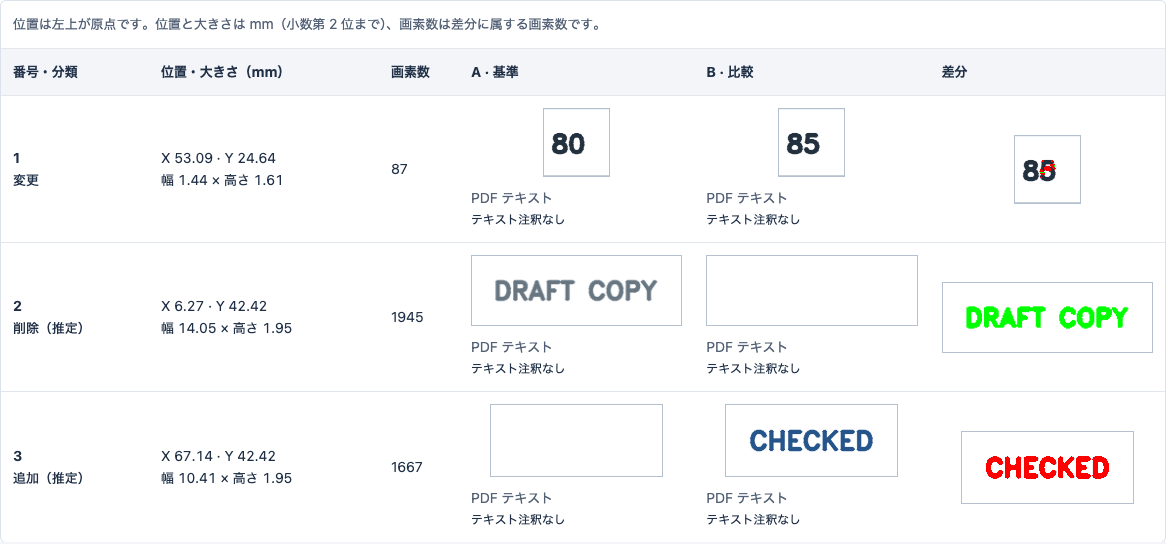
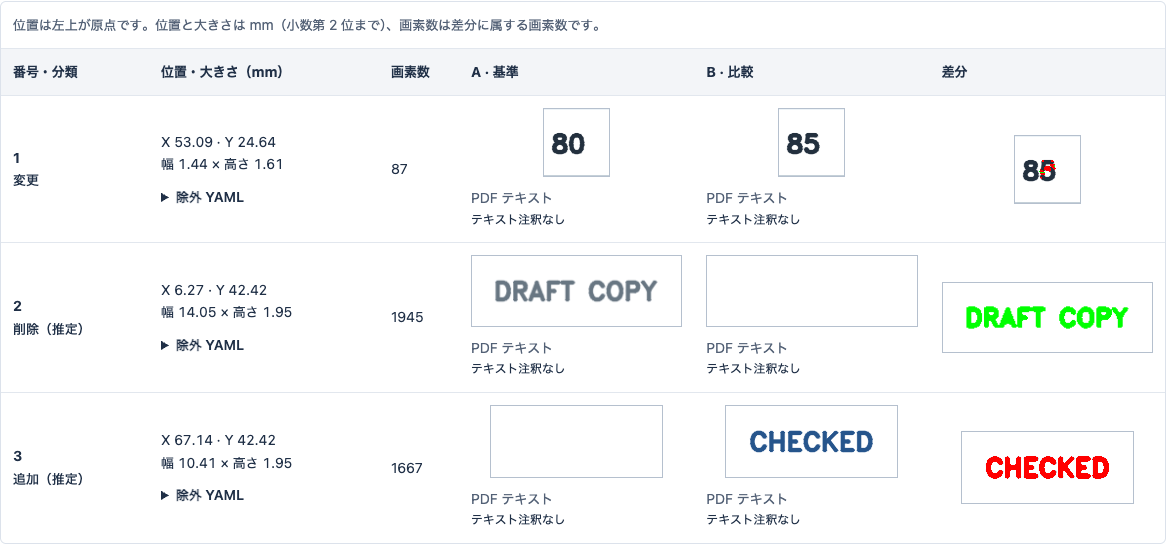
release: 赤青オーバーレイの実画面を追加してv0.1.3を準備する

diff --git a/docs/samples/readme/result/report.html b/docs/samples/readme/result/report.html
@@ -35,6 +35,12 @@ details[open] > summary { margin-bottom: 20px; }
 .page-metrics { grid-template-columns: repeat(auto-fit, minmax(160px, 1fr)); }
 .notice { padding: 10px 14px; background: #fff6da; border-radius: 5px; font-size: .875rem; }
 .viewer { margin: 20px 0 24px; border: 1px solid #dce2eb; border-radius: 8px; overflow: hidden; background: #f3f5f8; }
+.raw-evidence { margin: 24px 0; padding-top: 20px; border-top: 1px solid #dce2eb; }
+.raw-legend { font-weight: 600; }
+.raw-a { color: #b00000; }
+.raw-b { color: #0000b0; }
+.raw-links { display: flex; flex-wrap: wrap; gap: 8px 20px; font-size: .875rem; }
+.raw-links a { padding: 6px 0; overflow-wrap: anywhere; }
 .viewer-toolbar { display: flex; align-items: center; justify-content: space-between; gap: 12px; flex-wrap: wrap; padding: 12px 16px; }
 figcaption { font-size: .875rem; color: #536176; }
 .image-switch { display: flex; flex-wrap: wrap; gap: 4px; }
@@ -55,6 +61,10 @@ th, td { padding: 12px; border-top: 1px solid #e2e7ee; vertical-align: middle; }
 thead th { background: #f3f5f8; white-space: nowrap; }
 td { overflow-wrap: anywhere; }
 .clusters { min-width: 960px; table-layout: fixed; }
+.region-settings, .region-results { min-width: 900px; table-layout: fixed; }
+.region-settings th:first-child, .region-results th:first-child { width: 190px; overflow-wrap: anywhere; }
+.page-regions { margin: 16px 0 24px; }
+.region-audit li { overflow-wrap: anywhere; }
 .clusters th:nth-child(1) { width: 148px; }
 .kind { white-space: nowrap; font-weight: 500; }
 .movement { display: block; font-weight: 400; font-size: .8rem; overflow-wrap: anywhere; }
@@ -62,6 +72,10 @@ td { overflow-wrap: anywhere; }
 .clusters th:nth-child(2) { width: 230px; }
 .clusters th:nth-child(3) { width: 80px; }
 .bounds { font-variant-numeric: tabular-nums; }
+.exclusion-snippet { margin-top: 10px; }
+.exclusion-snippet[open] > summary { margin-bottom: 8px; }
+.exclusion-snippet label { display: block; font-size: .8rem; color: #536176; }
+.exclusion-snippet textarea { display: block; width: 100%; max-width: 100%; margin: 4px 0 8px; padding: 8px; border: 1px solid #9caabd; border-radius: 4px; background: #f8fafc; color: #203047; font: .8rem/1.5 ui-monospace, monospace; resize: vertical; }
 .crop { display: block; max-width: 100%; max-height: 160px; width: auto; height: auto; margin: auto; border: 1px solid #b5c0ce; }
 .pdf-text { margin-top: 10px; font-size: .8rem; }
 .text-value { white-space: pre-wrap; overflow-wrap: anywhere; max-height: 12rem; overflow-y: auto; }
@@ -86,6 +100,7 @@ footer { color: #536176; font-size: .8rem; text-align: center; margin-top: 36px;
   .card { border-radius: 0; }
   .table-scroll { overflow: visible; }
   .clusters { min-width: 0; table-layout: auto; }
+  .region-settings, .region-results { min-width: 0; table-layout: auto; }
 }
 </style>
 </head>
@@ -95,7 +110,7 @@ footer { color: #536176; font-size: .8rem; text-align: center; margin-top: 36px;
 <header>
 <p class="eyebrow">ReportDiff · 比較レポート</p>
 <h1>帳票の比較結果 <span class="status different">相違あり</span></h1>
-<p class="muted">2026-09-21 12:00:00 +09:00 · reportdiff 0.1.2</p>
+<p class="muted">2026-09-21 12:00:00 +09:00 · reportdiff 0.1.3</p>
 </header>
 <section aria-label="要約" class="card">
 <div class="inputs">
@@ -109,11 +124,11 @@ footer { color: #536176; font-size: .8rem; text-align: center; margin-top: 36px;
 <div><dt>位置ずれを吸収した数</dt><dd>0</dd></div>
 </dl>
 <p class="muted">比較・相違のページ数は今回の出力対象分です。片側だけのページも相違に含みます。吸収数は位置ずれとして相違から除いたグループ数です。</p>
-</section><section class="card warnings" aria-labelledby="warnings-title"><h2 id="warnings-title">警告</h2><p>警告はありません。</p></section><details class="card settings"><summary>使った設定・除外領域</summary><dl class="settings-grid"><div><dt>PDF の描画解像度</dt><dd>300 dpi</dd></div><div><dt>画像の換算解像度</dt><dd>300 dpi</dd></div><div><dt>位置ずれの許容幅</dt><dd>0.15 mm</dd></div><div><dt>色の差のしきい値</dt><dd>3</dd></div><div><dt>コントラスト比例の許容係数</dt><dd>0.3</dd></div><div><dt>インクの局所背景半径</dt><dd>1.5 mm</dd></div><div><dt>インクの明度差のしきい値</dt><dd>25</dd></div><div><dt>クラスタの結合距離・横</dt><dd>3 mm</dd></div><div><dt>クラスタの結合距離・縦</dt><dd>1 mm</dd></div><div><dt>クラスタの最小画素数</dt><dd>4</dd></div><div><dt>ページのクラスタ数上限</dt><dd>500</dd></div><div><dt>差分の割合の上限</dt><dd>0.3</dd></div><div><dt>クラスタの読み順の帯幅</dt><dd>5 mm</dd></div><div><dt>移動の探索距離（各軸）</dt><dd>5 mm</dd></div><div><dt>移動の一致度の下限</dt><dd>0.98</dd></div><div><dt>移動候補の次点との差</dt><dd>0.02</dd></div><div><dt>移動テンプレートの余白</dt><dd>1 mm</dd></div><div><dt>全体補正</dt><dd>無効</dd></div><div><dt>全体補正の探索距離（各軸）</dt><dd>5 mm</dd></div><div><dt>全体補正の一致度の下限</dt><dd>0.98</dd></div><div><dt>全体補正の次点との差</dt><dd>0.02</dd></div><div><dt>全体補正の改善量の下限</dt><dd>0.05</dd></div><div><dt>全体補正の粗い格子の長辺上限</dt><dd>800 要素</dd></div><div><dt>全体補正の復元段階の探索半径</dt><dd>2 要素</dd></div><div><dt>全体補正の支持区画数の下限</dt><dd>3</dd></div><div><dt>全体補正の支持行数の下限</dt><dd>2</dd></div><div><dt>全体補正の支持列数の下限</dt><dd>2</dd></div><div><dt>全体補正の区画内の黒換算面積</dt><dd>1 mm&#178;</dd></div><div><dt>PDF 注釈の文字要素数上限（ページ・片側）</dt><dd>100000</dd></div><div><dt>PDF 注釈の単語数上限（ページ・片側）</dt><dd>20000</dd></div><div><dt>PDF 注釈の本文上限（クラスタ・片側）</dt><dd>2000 Unicode 文字</dd></div><div><dt>PDF 注釈の行の重なり率の下限</dt><dd>0.5</dd></div><div><dt>切り出し画像の余白</dt><dd>2 mm</dd></div></dl><h3>除外領域</h3><p>除外領域はありません。</p></details><section id="pages" aria-labelledby="pages-title"><h2 id="pages-title">ページ別の結果</h2><p class="muted">重ね描きの赤は差分・輪郭・番号、黄色は除外領域です。画像を選ぶと元の大きさで開きます。</p><p class="muted">追加・削除などの分類は A→B のインクの有無からの推定です。背景・塗りや判定が明確でない差は「変更」とします。「移動（推定）」は位置を変えると内容が一致し、対応が一意と判断できた箇所です。移動の向きは A→B です。移動も相違として数えます。切り出しの緑は A だけのインク、赤は B だけ・両方のインクやその他の差分です。</p><p class="muted">PDF テキストは元ファイルの文字情報を添えた補足です。画像の文字認識結果ではなく、不可視の文字や変更されていない部分を含むことがあります。複雑な段組みや縦書きの読み順は再現しません。画像と併せて確認してください。</p><details class="card page" id="page-1" open><summary><span>1 ページ</span> <span class="status different">相違あり</span></summary><dl class="metrics page-metrics"><div><dt>画像サイズ</dt><dd>1100 &#215; 650 px</dd></div><div><dt>生の差分の画素数</dt><dd>3699</dd></div><div><dt>除外したノイズの数</dt><dd>0</dd></div><div><dt>位置ずれを吸収した数</dt><dd>0</dd></div><div><dt>吸収に使った最大ずれ</dt><dd>0 px</dd></div></dl><figure class="viewer"><figcaption class="viewer-toolbar"><div class="image-switch" role="group" aria-label="1 ページの表示画像" hidden><button type="button" aria-pressed="false" data-src="pages/p001_a.png" data-label="1 ページ・A &#183; 基準">A · 基準</button><button type="button" aria-pressed="false" data-src="pages/p001_b.png" data-label="1 ページ・B &#183; 比較">B · 比較</button><button type="button" aria-pressed="true" data-src="pages/p001_overlay.png" data-label="1 ページ・重ね描き">重ね描き</button></div><span class="viewer-label" aria-live="polite">1 ページ・重ね描き</span></figcaption><a class="page-image-link" href="pages/p001_overlay.png"><img class="page-image" src="pages/p001_overlay.png" alt="1 ページ・重ね描き" loading="lazy" width="1100" height="650"></a></figure><h3>相違箇所 <span class="muted">3 件</span></h3><p class="muted table-hint">一覧は横にスクロールできます。</p><div class="table-scroll" role="region" aria-label="1 ページの相違箇所" tabindex="0"><table class="clusters"><caption>位置は左上が原点です。位置と大きさは mm（小数第 2 位まで）、画素数は差分に属する画素数です。</caption><thead><tr><th scope="col">番号・分類</th><th scope="col">位置・大きさ（mm）</th><th scope="col">画素数</th><th scope="col">A · 基準</th><th scope="col">B · 比較</th><th scope="col">差分</th></tr></thead><tbody><tr id="page-1-cluster-1"><th scope="row">1<br><span class="kind">変更</span></th><td class="bounds">X 53.09 · Y 24.64<br>幅 1.44 × 高さ 1.61</td><td>87</td><td><a href="crops/p001_c001_a.png"><img class="crop" src="crops/p001_c001_a.png" alt="1 ページ・相違 1・A の切り出し" loading="lazy"></a><div class="pdf-text"><span class="muted">PDF テキスト</span><div class="text-value" tabindex="0" role="region" aria-label="1 ページ・相違 1・A の切り出しの PDF テキスト">テキスト注釈なし</div></div></td><td><a href="crops/p001_c001_b.png"><img class="crop" src="crops/p001_c001_b.png" alt="1 ページ・相違 1・B の切り出し" loading="lazy"></a><div class="pdf-text"><span class="muted">PDF テキスト</span><div class="text-value" tabindex="0" role="region" aria-label="1 ページ・相違 1・B の切り出しの PDF テキスト">テキスト注釈なし</div></div></td><td><a href="crops/p001_c001_diff.png"><img class="crop" src="crops/p001_c001_diff.png" alt="1 ページ・相違 1・差分の切り出し" loading="lazy"></a></td></tr><tr id="page-1-cluster-2"><th scope="row">2<br><span class="kind">削除（推定）</span></th><td class="bounds">X 6.27 · Y 42.42<br>幅 14.05 × 高さ 1.95</td><td>1945</td><td><a href="crops/p001_c002_a.png"><img class="crop" src="crops/p001_c002_a.png" alt="1 ページ・相違 2・A の切り出し" loading="lazy"></a><div class="pdf-text"><span class="muted">PDF テキスト</span><div class="text-value" tabindex="0" role="region" aria-label="1 ページ・相違 2・A の切り出しの PDF テキスト">テキスト注釈なし</div></div></td><td><a href="crops/p001_c002_b.png"><img class="crop" src="crops/p001_c002_b.png" alt="1 ページ・相違 2・B の切り出し" loading="lazy"></a><div class="pdf-text"><span class="muted">PDF テキスト</span><div class="text-value" tabindex="0" role="region" aria-label="1 ページ・相違 2・B の切り出しの PDF テキスト">テキスト注釈なし</div></div></td><td><a href="crops/p001_c002_diff.png"><img class="crop" src="crops/p001_c002_diff.png" alt="1 ページ・相違 2・差分の切り出し" loading="lazy"></a></td></tr><tr id="page-1-cluster-3"><th scope="row">3<br><span class="kind">追加（推定）</span></th><td class="bounds">X 67.14 · Y 42.42<br>幅 10.41 × 高さ 1.95</td><td>1667</td><td><a href="crops/p001_c003_a.png"><img class="crop" src="crops/p001_c003_a.png" alt="1 ページ・相違 3・A の切り出し" loading="lazy"></a><div class="pdf-text"><span class="muted">PDF テキスト</span><div class="text-value" tabindex="0" role="region" aria-label="1 ページ・相違 3・A の切り出しの PDF テキスト">テキスト注釈なし</div></div></td><td><a href="crops/p001_c003_b.png"><img class="crop" src="crops/p001_c003_b.png" alt="1 ページ・相違 3・B の切り出し" loading="lazy"></a><div class="pdf-text"><span class="muted">PDF テキスト</span><div class="text-value" tabindex="0" role="region" aria-label="1 ページ・相違 3・B の切り出しの PDF テキスト">テキスト注釈なし</div></div></td><td><a href="crops/p001_c003_diff.png"><img class="crop" src="crops/p001_c003_diff.png" alt="1 ページ・相違 3・差分の切り出し" loading="lazy"></a></td></tr></tbody></table></div></details></section><footer>ReportDiff · オフライン比較レポート</footer></main><script type="application/json" id="result">{
+</section><section class="card warnings" aria-labelledby="warnings-title"><h2 id="warnings-title">警告</h2><p>警告はありません。</p></section><details class="card settings"><summary>使った設定・除外領域</summary><dl class="settings-grid"><div><dt>PDF の描画解像度</dt><dd>300 dpi</dd></div><div><dt>画像の換算解像度</dt><dd>300 dpi</dd></div><div><dt>位置ずれの許容幅</dt><dd>0.15 mm</dd></div><div><dt>色の差のしきい値</dt><dd>3</dd></div><div><dt>コントラスト比例の許容係数</dt><dd>0.3</dd></div><div><dt>インクの局所背景半径</dt><dd>1.5 mm</dd></div><div><dt>インクの明度差のしきい値</dt><dd>25</dd></div><div><dt>クラスタの結合距離・横</dt><dd>3 mm</dd></div><div><dt>クラスタの結合距離・縦</dt><dd>1 mm</dd></div><div><dt>クラスタの最小画素数</dt><dd>4</dd></div><div><dt>ページのクラスタ数上限</dt><dd>500</dd></div><div><dt>差分の割合の上限</dt><dd>0.3</dd></div><div><dt>クラスタの読み順の帯幅</dt><dd>5 mm</dd></div><div><dt>移動の探索距離（各軸）</dt><dd>5 mm</dd></div><div><dt>移動の一致度の下限</dt><dd>0.98</dd></div><div><dt>移動候補の次点との差</dt><dd>0.02</dd></div><div><dt>移動テンプレートの余白</dt><dd>1 mm</dd></div><div><dt>全体補正</dt><dd>無効</dd></div><div><dt>全体補正の探索距離（各軸）</dt><dd>5 mm</dd></div><div><dt>全体補正の一致度の下限</dt><dd>0.98</dd></div><div><dt>全体補正の次点との差</dt><dd>0.02</dd></div><div><dt>全体補正の改善量の下限</dt><dd>0.05</dd></div><div><dt>全体補正の粗い格子の長辺上限</dt><dd>800 要素</dd></div><div><dt>全体補正の復元段階の探索半径</dt><dd>2 要素</dd></div><div><dt>全体補正の支持区画数の下限</dt><dd>3</dd></div><div><dt>全体補正の支持行数の下限</dt><dd>2</dd></div><div><dt>全体補正の支持列数の下限</dt><dd>2</dd></div><div><dt>全体補正の区画内の黒換算面積</dt><dd>1 mm&#178;</dd></div><div><dt>PDF 注釈の文字要素数上限（ページ・片側）</dt><dd>100000</dd></div><div><dt>PDF 注釈の単語数上限（ページ・片側）</dt><dd>20000</dd></div><div><dt>PDF 注釈の本文上限（クラスタ・片側）</dt><dd>2000 Unicode 文字</dd></div><div><dt>PDF 注釈の行の重なり率の下限</dt><dd>0.5</dd></div><div><dt>切り出し画像の余白</dt><dd>2 mm</dd></div><div><dt>除外 YAML の余白</dt><dd>1 mm</dd></div><div><dt>確認用オーバーレイ（補正前）</dt><dd>有効</dd></div></dl><h3>除外領域</h3><p>除外領域はありません。</p></details><section id="pages" aria-labelledby="pages-title"><h2 id="pages-title">ページ別の結果</h2><p class="muted">重ね描きの赤は差分・輪郭・番号、黄色は除外領域です。画像を選ぶと元の大きさで開きます。</p><p class="muted">追加・削除などの分類は A→B のインクの有無からの推定です。背景・塗りや判定が明確でない差は「変更」とします。「移動（推定）」は位置を変えると内容が一致し、対応が一意と判断できた箇所です。移動の向きは A→B です。移動も相違として数えます。切り出しの緑は A だけのインク、赤は B だけ・両方のインクやその他の差分です。</p><p class="muted">PDF テキストは元ファイルの文字情報を添えた補足です。画像の文字認識結果ではなく、不可視の文字や変更されていない部分を含むことがあります。複雑な段組みや縦書きの読み順は再現しません。画像と併せて確認してください。</p><details class="card page" id="page-1" open><summary><span>1 ページ</span> <span class="status different">相違あり</span></summary><dl class="metrics page-metrics"><div><dt>画像サイズ</dt><dd>1100 &#215; 650 px</dd></div><div><dt>生の差分の画素数</dt><dd>3699</dd></div><div><dt>除外したノイズの数</dt><dd>0</dd></div><div><dt>位置ずれを吸収した数</dt><dd>0</dd></div><div><dt>吸収に使った最大ずれ</dt><dd>0 px</dd></div></dl><h3>判定表示</h3><figure class="viewer"><figcaption class="viewer-toolbar"><div class="image-switch" role="group" aria-label="1 ページの表示画像" hidden><button type="button" aria-pressed="false" data-src="pages/p001_a.png" data-label="1 ページ・A &#183; 基準">A · 基準</button><button type="button" aria-pressed="false" data-src="pages/p001_b.png" data-label="1 ページ・B &#183; 比較">B · 比較</button><button type="button" aria-pressed="true" data-src="pages/p001_overlay.png" data-label="1 ページ・重ね描き">重ね描き</button></div><span class="viewer-label" aria-live="polite">1 ページ・重ね描き</span></figcaption><a class="page-image-link" href="pages/p001_overlay.png"><img class="page-image" src="pages/p001_overlay.png" alt="1 ページ・重ね描き" loading="lazy" width="1100" height="650"></a></figure><section class="raw-evidence"><h3>確認用オーバーレイ（補正前）</h3><p class="muted">判定から独立した元画像の重ね合わせです。左上を合わせ、右・下だけ白で埋めています。位置補正・除外・差分判定は反映しません。判定表示や相違箇所の座標と異なる場合があります。</p><p class="raw-legend"><span class="raw-a">赤：A のみ</span> · <span class="raw-b">青：B のみ</span> · <span>黒／グレー：共通</span></p><p class="muted">濃淡をグレーに変換して重ねています。同じグレー値になる色相の違いは見えません。色は元 A/B で確認してください。</p><p class="muted">300 dpi · 白埋め後 1100 × 650 px<br>A 元サイズ 1100 × 650 px · 白埋め 右 0 / 下 0 px<br>B 元サイズ 1100 × 650 px · 白埋め 右 0 / 下 0 px</p><figure class="viewer"><figcaption class="viewer-toolbar"><div class="image-switch" role="group" aria-label="1 ページの確認用画像" hidden><button type="button" aria-pressed="true" data-src="pages/p001_raw_overlay.png" data-label="1 ページ・確認用オーバーレイ（補正前）">確認用オーバーレイ（補正前）</button><button type="button" aria-pressed="false" data-src="pages/p001_a.png" data-label="1 ページ・元 A（補正前）">元 A（補正前）</button><button type="button" aria-pressed="false" data-src="pages/p001_b.png" data-label="1 ページ・元 B（補正前）">元 B（補正前）</button></div><span class="viewer-label" aria-live="polite">1 ページ・確認用オーバーレイ（補正前）</span></figcaption><a class="page-image-link" href="pages/p001_raw_overlay.png"><img class="page-image" src="pages/p001_raw_overlay.png" alt="1 ページ・確認用オーバーレイ（補正前）" loading="lazy" width="1100" height="650"></a></figure><nav class="raw-links" aria-label="1 ページの確認用 PNG"><a href="pages/p001_raw_overlay.png">確認用オーバーレイ（補正前） PNG</a><a href="pages/p001_a.png">元 A（補正前） PNG</a><a href="pages/p001_b.png">元 B（補正前） PNG</a></nav></section><p class="muted">相違を次回から除外する場合は、各行の「除外 YAML」を開いて設定の <code>exclude:</code> の下へ貼り付けてください。行頭に半角スペース 2 個を付けます。対象はこのページだけです。座標は A／補正後 B が基準です。</p><h3>相違箇所 <span class="muted">3 件</span></h3><p class="muted table-hint">一覧は横にスクロールできます。</p><div class="table-scroll" role="region" aria-label="1 ページの相違箇所" tabindex="0"><table class="clusters"><caption>位置は左上が原点です。位置と大きさは mm（小数第 2 位まで）、画素数は差分に属する画素数です。</caption><thead><tr><th scope="col">番号・分類</th><th scope="col">位置・大きさ（mm）</th><th scope="col">画素数</th><th scope="col">A · 基準</th><th scope="col">B · 比較</th><th scope="col">差分</th></tr></thead><tbody><tr id="page-1-cluster-1"><th scope="row">1<br><span class="kind">変更</span></th><td class="bounds">X 53.09 · Y 24.64<br>幅 1.44 × 高さ 1.61<details class="exclusion-snippet"><summary>除外 YAML</summary><label for="exclusion-1-1">1 ページ・相違 1</label><textarea id="exclusion-1-1" readonly rows="4" spellcheck="false" aria-label="1 ページ・相違 1の除外 YAML">- {page: 1, x: 52, y: 23.5, w: 4, h: 4, note: &quot;&quot;}</textarea><button type="button" class="select-yaml" hidden>YAML を選択</button></details></td><td>87</td><td><a href="crops/p001_c001_a.png"><img class="crop" src="crops/p001_c001_a.png" alt="1 ページ・相違 1・A の切り出し" loading="lazy"></a><div class="pdf-text"><span class="muted">PDF テキスト</span><div class="text-value" tabindex="0" role="region" aria-label="1 ページ・相違 1・A の切り出しの PDF テキスト">テキスト注釈なし</div></div></td><td><a href="crops/p001_c001_b.png"><img class="crop" src="crops/p001_c001_b.png" alt="1 ページ・相違 1・B の切り出し" loading="lazy"></a><div class="pdf-text"><span class="muted">PDF テキスト</span><div class="text-value" tabindex="0" role="region" aria-label="1 ページ・相違 1・B の切り出しの PDF テキスト">テキスト注釈なし</div></div></td><td><a href="crops/p001_c001_diff.png"><img class="crop" src="crops/p001_c001_diff.png" alt="1 ページ・相違 1・差分の切り出し" loading="lazy"></a></td></tr><tr id="page-1-cluster-2"><th scope="row">2<br><span class="kind">削除（推定）</span></th><td class="bounds">X 6.27 · Y 42.42<br>幅 14.05 × 高さ 1.95<details class="exclusion-snippet"><summary>除外 YAML</summary><label for="exclusion-1-2">1 ページ・相違 2</label><textarea id="exclusion-1-2" readonly rows="4" spellcheck="false" aria-label="1 ページ・相違 2の除外 YAML">- {page: 1, x: 5, y: 41, w: 16.5, h: 4.5, note: &quot;&quot;}</textarea><button type="button" class="select-yaml" hidden>YAML を選択</button></details></td><td>1945</td><td><a href="crops/p001_c002_a.png"><img class="crop" src="crops/p001_c002_a.png" alt="1 ページ・相違 2・A の切り出し" loading="lazy"></a><div class="pdf-text"><span class="muted">PDF テキスト</span><div class="text-value" tabindex="0" role="region" aria-label="1 ページ・相違 2・A の切り出しの PDF テキスト">テキスト注釈なし</div></div></td><td><a href="crops/p001_c002_b.png"><img class="crop" src="crops/p001_c002_b.png" alt="1 ページ・相違 2・B の切り出し" loading="lazy"></a><div class="pdf-text"><span class="muted">PDF テキスト</span><div class="text-value" tabindex="0" role="region" aria-label="1 ページ・相違 2・B の切り出しの PDF テキスト">テキスト注釈なし</div></div></td><td><a href="crops/p001_c002_diff.png"><img class="crop" src="crops/p001_c002_diff.png" alt="1 ページ・相違 2・差分の切り出し" loading="lazy"></a></td></tr><tr id="page-1-cluster-3"><th scope="row">3<br><span class="kind">追加（推定）</span></th><td class="bounds">X 67.14 · Y 42.42<br>幅 10.41 × 高さ 1.95<details class="exclusion-snippet"><summary>除外 YAML</summary><label for="exclusion-1-3">1 ページ・相違 3</label><textarea id="exclusion-1-3" readonly rows="4" spellcheck="false" aria-label="1 ページ・相違 3の除外 YAML">- {page: 1, x: 66, y: 41, w: 13, h: 4.5, note: &quot;&quot;}</textarea><button type="button" class="select-yaml" hidden>YAML を選択</button></details></td><td>1667</td><td><a href="crops/p001_c003_a.png"><img class="crop" src="crops/p001_c003_a.png" alt="1 ページ・相違 3・A の切り出し" loading="lazy"></a><div class="pdf-text"><span class="muted">PDF テキスト</span><div class="text-value" tabindex="0" role="region" aria-label="1 ページ・相違 3・A の切り出しの PDF テキスト">テキスト注釈なし</div></div></td><td><a href="crops/p001_c003_b.png"><img class="crop" src="crops/p001_c003_b.png" alt="1 ページ・相違 3・B の切り出し" loading="lazy"></a><div class="pdf-text"><span class="muted">PDF テキスト</span><div class="text-value" tabindex="0" role="region" aria-label="1 ページ・相違 3・B の切り出しの PDF テキスト">テキスト注釈なし</div></div></td><td><a href="crops/p001_c003_diff.png"><img class="crop" src="crops/p001_c003_diff.png" alt="1 ページ・相違 3・差分の切り出し" loading="lazy"></a></td></tr></tbody></table></div></details></section><footer>ReportDiff · オフライン比較レポート</footer></main><script type="application/json" id="result">{
   "schema_version": 1,
   "tool": {
     "name": "reportdiff",
-    "version": "0.1.2"
+    "version": "0.1.3"
   },
   "generated_at": "2026-09-21T12:00:00+09:00",
   "inputs": {
@@ -148,7 +163,9 @@ footer { color: #536176; font-size: .8rem; text-align: center; margin-top: 36px;
     },
     "exclude": [],
     "report": {
-      "crop_margin_mm": 2
+      "crop_margin_mm": 2,
+      "snippet_margin_mm": 1,
+      "raw_overlay": true
     },
     "ink": {
       "background_radius_mm": 1.5,
@@ -300,6 +317,40 @@ footer { color: #536176; font-size: .8rem; text-align: center; margin-top: 36px;
         "score_gap": null,
         "coarse_score_gap": null,
         "support_cells": null
+      },
+      "raw_evidence": {
+        "method": "grayscale_red_blue_v1",
+        "coordinate_system": "original_top_left",
+        "dpi": 300,
+        "canvas_size_px": {
+          "w": 1100,
+          "h": 650
+        },
+        "a": {
+          "missing": false,
+          "original_size_px": {
+            "w": 1100,
+            "h": 650
+          },
+          "padding_px": {
+            "right": 0,
+            "bottom": 0
+          },
+          "image": "pages\u002Fp001_a.png"
+        },
+        "b": {
+          "missing": false,
+          "original_size_px": {
+            "w": 1100,
+            "h": 650
+          },
+          "padding_px": {
+            "right": 0,
+            "bottom": 0
+          },
+          "image": "pages\u002Fp001_b.png"
+        },
+        "overlay": "pages\u002Fp001_raw_overlay.png"
       }
     }
   ]
@@ -316,6 +367,16 @@ footer { color: #536176; font-size: .8rem; text-align: center; margin-top: 36px;
         item.setAttribute('aria-pressed', String(item === button));
       });
     });
+  });
+});
+
+document.querySelectorAll('.exclusion-snippet').forEach(snippet => {
+  const button = snippet.querySelector('.select-yaml');
+  button.hidden = false;
+  button.addEventListener('click', () => {
+    const field = snippet.querySelector('textarea');
+    field.focus();
+    field.select();
   });
 });
 </script></body></html>

diff --git a/tests/ReportDiff.Tests/ReportWriterTests.cs b/tests/ReportDiff.Tests/ReportWriterTests.cs
@@ -41,7 +41,7 @@ public sealed class ReportWriterTests
         var root = document.RootElement;
         Keys(root, "schema_version", "tool", "generated_at", "inputs", "config", "summary", "warnings", "pages");
         Assert.Equal(1, loaded.SchemaVersion);
-        Assert.Equal(new ReportTool("reportdiff", "0.1.2"), loaded.Tool);
+        Assert.Equal(new ReportTool("reportdiff", "0.1.3"), loaded.Tool);
         Assert.Equal(timestamp, loaded.GeneratedAt);
         Assert.Equal(result.Inputs, loaded.Inputs);
         Keys(root.GetProperty("config"), "dpi", "image_dpi", "diff", "ink", "cluster", "move", "align", "text", "exclude", "report");

diff --git a/tools/ReportDiff.SampleGenerator/Program.cs b/tools/ReportDiff.SampleGenerator/Program.cs
@@ -20,7 +20,7 @@ var inputA = Path.Combine(output, "inspection-a.png");
 var inputB = Path.Combine(output, "inspection-b.png");
 File.WriteAllBytes(inputA, a.ImEncode(".png"));
 File.WriteAllBytes(inputB, b.ImEncode(".png"));
-var settings = new AppSettings();
+var settings = new AppSettings { Report = new() { RawOverlay = true } };
 using var normalized = PageNormalizer.Normalize(a, b);
 using var comparison = PageComparer.Compare(normalized.A, normalized.B, settings.ForPage(1, settings.Dpi));
 var reportDirectory = Path.Combine(output, "result");

diff --git a/src/ReportDiff.Report/ReportDocument.cs b/src/ReportDiff.Report/ReportDocument.cs
@@ -11,7 +11,7 @@ public sealed record ReportDocument(int SchemaVersion, ReportTool Tool, DateTime
     IReadOnlyList<ReportWarning> Warnings, IReadOnlyList<ReportPage> Pages);
 public sealed record ReportTool(string Name, string Version)
 {
-    public static ReportTool Current { get; } = new("reportdiff", "0.1.2");
+    public static ReportTool Current { get; } = new("reportdiff", "0.1.3");
 }
 public sealed record ReportInputs(ReportInput A, ReportInput B);
 public sealed record ReportInput(string Path, string Type, int Pages, string Sha256)

diff --git a/docs/samples/readme/README.md b/docs/samples/readme/README.md
@@ -8,9 +8,10 @@
 |---|---|
 | [inspection-a.png](inspection-a.png) | 基準画像。DocumentsのCOUNTは80、左下にDRAFT COPY |
 | [inspection-b.png](inspection-b.png) | COUNTを85へ変更、DRAFT COPYを削除、右下にCHECKEDを追加 |
-| [result/report.html](result/report.html) | v0.1.2の標準HTMLレポート。ダウンロード・ZIP展開後にブラウザで開く |
+| [result/report.html](result/report.html) | v0.1.3の標準HTMLレポート。ダウンロード・ZIP展開後にブラウザで開く |
 | [result/result.json](result/result.json) | 3箇所の相違と実効設定・入力ハッシュ |
 | `result/pages/`・`result/crops/` | 標準のページ画像・差分・切り出し |
+| [result/pages/p001_raw_overlay.png](result/pages/p001_raw_overlay.png) | 補正前の確認用画像。Aのみ赤、Bのみ青、共通は黒／グレー |
 
 入力は1100×650pxのPNG。既定のnormal・300dpi（画像DPIも300）で比較し、変更1・削除（推定）1・追加（推定）1を検出する。削除の差分は緑、その他の差分は赤。番号は業務上の変更件数を保証するものではない。この例は画像入力なのでPDFテキスト注釈はない。
 
@@ -22,20 +23,21 @@
 dotnet run --project tools/ReportDiff.SampleGenerator -c Release -- out/readme-sample
 ```
 
-[生成コード](https://github.com/zredjet/reportdiff/blob/v0.1.2/tools/ReportDiff.SampleGenerator/Program.cs)は実際の比較コアとReportWriter／HtmlReportWriterを呼ぶ。既定設定を変更せず、掲載用に生成日時を2026-09-21 12:00 JSTへ固定し、入力パスはファイル名だけにする。それ以外の比較結果・画像・HTMLは製品の出力。元データは毎回コードから描き、実帳票を参照しない。
+[生成コード](https://github.com/zredjet/reportdiff/blob/v0.1.3/tools/ReportDiff.SampleGenerator/Program.cs)は実際の比較コアとReportWriter／HtmlReportWriterを呼ぶ。比較設定は既定のまま、`report.raw_overlay: true` で確認用画像も出力する。掲載用に生成日時を2026-09-21 12:00 JSTへ固定し、入力パスはファイル名だけにする。それ以外の比較結果・画像・HTMLは製品の出力。元データは毎回コードから描き、実帳票を参照しない。
 
 CLIでも、入力画像を指定すれば同じ比較結果・PNGを生成できる。CLIの日時・入力パスは実際の実行値になる。
 
 ```sh
 dotnet run --project src/ReportDiff.Cli -c Release -- compare \
-  docs/samples/readme/inspection-a.png docs/samples/readme/inspection-b.png --out out/sample-cli
+  docs/samples/readme/inspection-a.png docs/samples/readme/inspection-b.png --out out/sample-cli --raw-overlay
 ```
 
-READMEの2枚は、実際のHTMLの重ね描き領域と差分一覧を撮影したもの。画素の描き足しや結果の加工は行わない。開発環境でPlaywrightとChromeを用意し、次を実行する（必要に応じて `NODE_PATH` を指定）。
+READMEの3枚は、実際のHTMLの判定用の重ね描き領域、差分一覧、確認用の赤青オーバーレイを撮影したもの。画素の描き足しや結果の加工は行わない。開発環境でPlaywrightとChromeを用意し、次を実行する（必要に応じて `NODE_PATH` を指定）。
 
 ```sh
 node tools/capture-readme-sample.mjs out/readme-sample/result/report.html out/readme-screens
 node tools/verify-html-report.mjs out/readme-sample/result/report.html out/readme-browser-check
+node tools/verify-raw-overlay.mjs out/readme-sample/result/report.html out/readme-raw-browser-check
 ```
 
 この自作例の表示・再現確認は、未実施の実帳票評価T2-7やWindows実機確認の代わりにはしない。

diff --git a/docs/verification/v0.1.3-release.md b/docs/verification/v0.1.3-release.md
@@ -1,0 +1,30 @@
+# v0.1.3 赤青オーバーレイ・領域設定の配布準備
+
+確認日：2026-09-22。v0.1.2 以降の T3-6、T3-4a、T3-4b、T3-1a、独立した周期ゴールデン 5 件、大グループ内の並列化を含む。比較式・既定の許容値・依存バージョンは維持する。
+
+## README と同梱サンプル
+
+README に実際の HTML レポートから撮影した確認用オーバーレイを追加した。A のみ赤、B のみ青、共通は黒／グレー。判定用の輪郭・番号・除外色を含めず、補正前の入力を確認する。自作の架空帳票で `DRAFT COPY` の削除、`CHECKED` の追加、数値 80→85 を示す。
+
+- サンプルの比較設定は normal・300dpi のまま、`report.raw_overlay: true` だけを有効化。3 箇所の判定・分類を維持する。
+- 入力 A/B とレポートを 2 回生成し、17 ファイルのバイト一致を確認。
+- 実 CLI と、生成日時・入力パスを除く JSON と全 13 PNG が一致。CLI・JSON の版は 0.1.3。
+- README の 3 画面を v0.1.3 の HTML から再撮影し、目視確認。画像の描き足し・差分の加工は行わない。
+- Chrome 153.0.8010.52、1280px / 390px で判定・確認用の切り替え、キーボード、PNG 単体、JavaScript なし、横幅、JSON 埋め込み、相違件数の不変を確認。ページエラー・外部リクエストは 0。
+- 入力・生成コード・画面はプロジェクトの自作物として MIT License で提供。外部帳票・ロゴ・個人情報を使わず、既存依存の第三者通知を維持する。
+
+[再生成手順](../samples/readme/README.md)と[検証記録](v0.1.3-sample.json)を参照。
+
+## ローカル検証と配布
+
+macOS Apple Silicon、.NET SDK 10.0.401 / Runtime 10.0.12。Release ビルドは警告・エラー 0、全 **1,330 テスト成功**、失敗・スキップ 0。元の PageMap 導入については [95 ケースの JSON・HTML・PNG 一致](t3-1a-pagemap.md)を確認済み。
+
+win-x64 の自己完結・単一 exe を publish し、バンドル検査に成功。依存・.NET 10.0.12・必須ネイティブ DLL・PdfPig 管理 DLL・許諾文のハッシュを既存の承認値と照合し、FFmpeg・他 OS のネイティブ資産を含めない。
+
+公開する `reportdiff-0.1.3-win-x64.zip` は対象コミットから発行し、README・画像・入力サンプル・生成済みレポート・文書・設定例・本体と第三者ライセンスを同梱する。ZIP CRC と全ファイルの SHA-256、コミット済みファイルとの一致を検証し、ZIP と SHA256SUMS を公開する。ログと配布前後の照合記録は `out/releases/v0.1.3/` に保存する。
+
+## 公開時の条件と確認範囲
+
+公開対象コミットを push し、Windows x64／macOS Apple Silicon の CI が成功してから `v0.1.3` タグと GitHub Release を公開する。対象コミット・CI 実行 URL・両 OS の結果・公開アセットの再ダウンロード照合結果はリリースページに記載する。
+
+Windows の完成版 exe をユーザー環境で実行する確認、Windows の Edge／Chrome、低メモリ実機、実帳票の受け入れは未完了。100 ページの合成データ測定は [PERF-2n](perf-2n-continuous.md) の条件に限る。exe は未署名、Intel Mac は対象外。T2-8 の保留候補と T3-1b 以降の行整列は今回のリリース完了に含めない。
